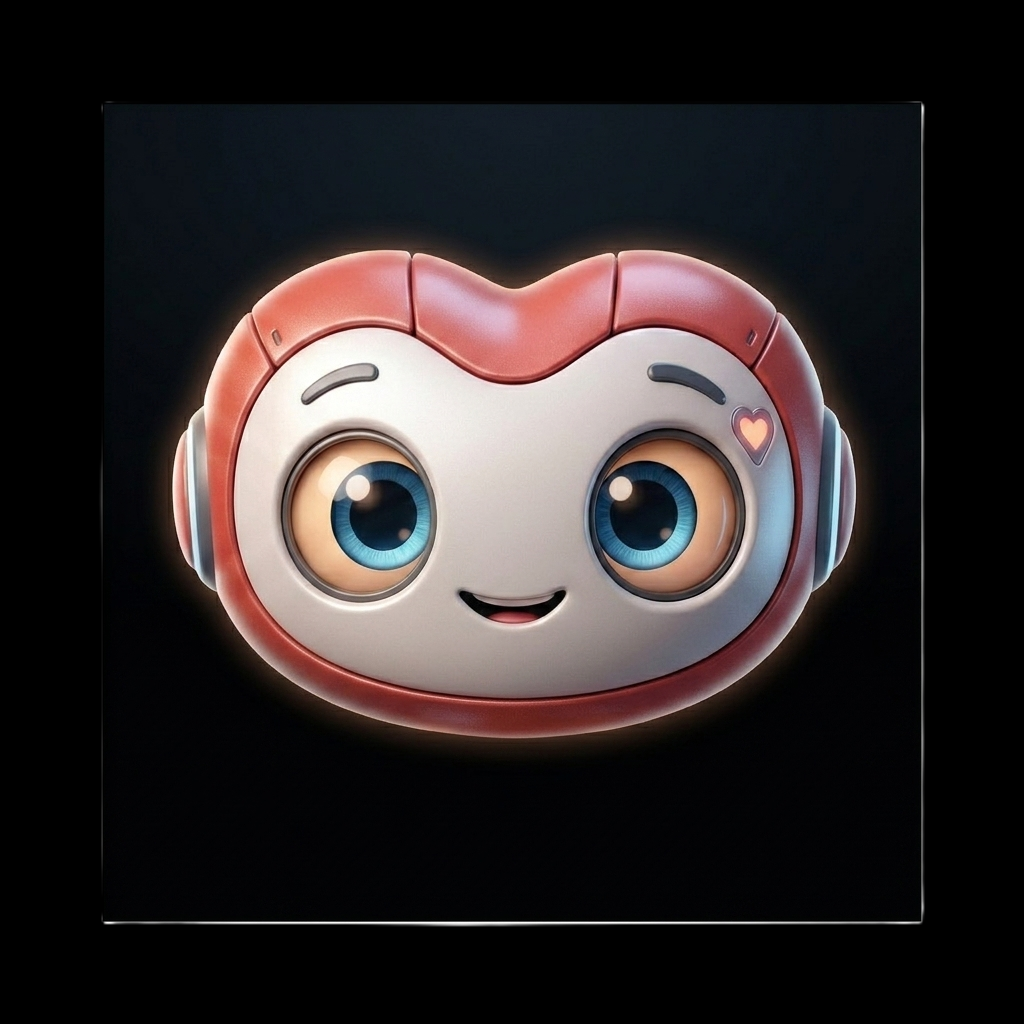
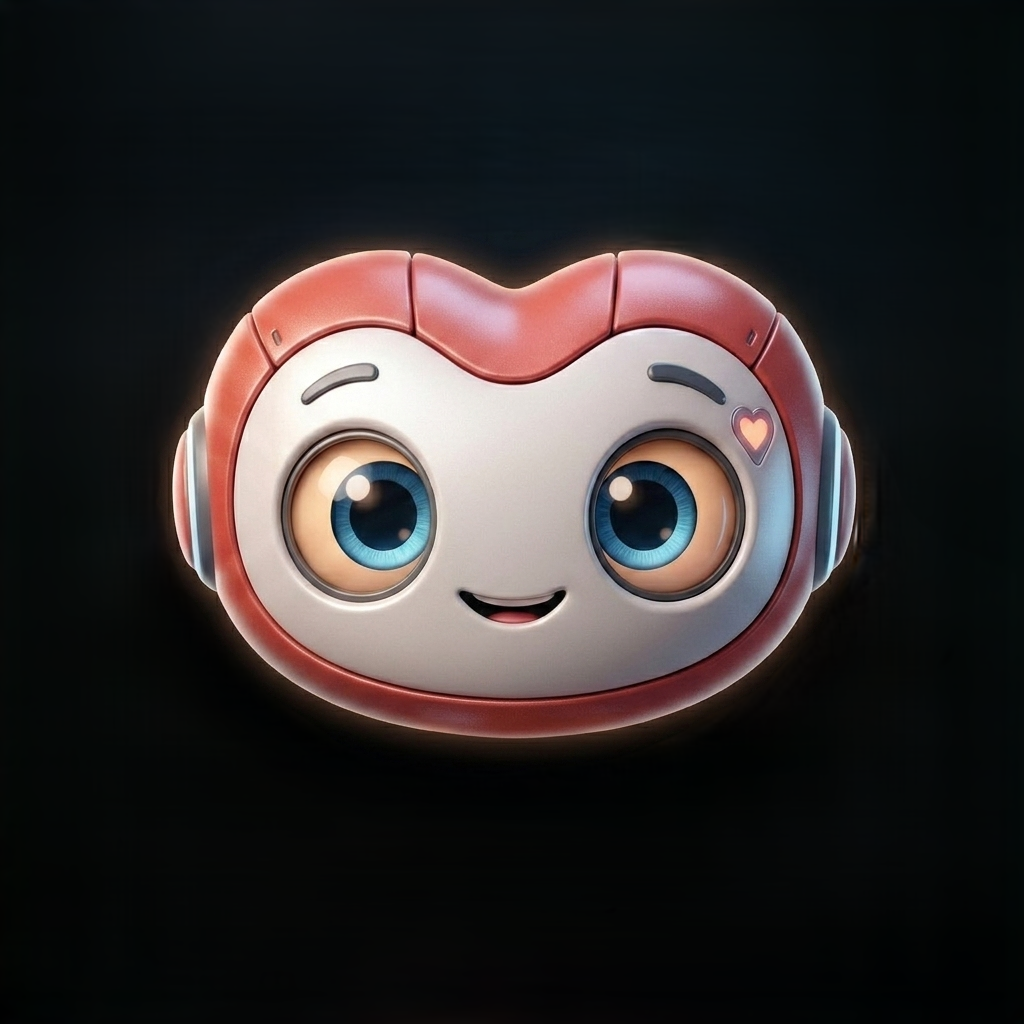
Remove COR video splash screen on startup

Changed region(s): [[0.1875, 0.0, 0.7188, 0.125], [0.125, 0.875, 0.9062, 0.9062], [0.875, 0.0938, 0.9062, 0.125]]

diff --git a/app/page.tsx b/app/page.tsx
@@ -29,12 +29,6 @@ export default function Home() {
   const [messages, setMessages] = useState<{role: string, content: string, image?: string}[]>([])
   const [input, setInput] = useState('')
   const [loading, setLoading] = useState(false)
-  const [showSplash, setShowSplash] = useState(() => {
-    if (typeof window !== 'undefined' && sessionStorage.getItem('splashShown')) return false
-    return true
-  })
-  const [fadingSplash, setFadingSplash] = useState(false)
-  const [isMuted, setIsMuted] = useState(true)
   const [savePreview, setSavePreview] = useState(false)
   const [pendingSummary, setPendingSummary] = useState('')
   const [selectedCategory, setSelectedCategory] = useState('')
@@ -97,7 +91,6 @@ export default function Home() {
   const [dragIdx, setDragIdx] = useState<number | null>(null)
 
   const bottomRef = useRef<HTMLDivElement>(null)
-  const videoRef = useRef<HTMLVideoElement>(null)
   const uploadInputRef = useRef<HTMLInputElement>(null)
   const mediaRecorderRef = useRef<MediaRecorder | null>(null)
   const audioChunksRef = useRef<Blob[]>([])
@@ -234,13 +227,6 @@ export default function Home() {
   useEffect(() => {
     bottomRef.current?.scrollIntoView({ behavior: 'smooth' })
   }, [messages])
-
-  useEffect(() => {
-    if (!showSplash) return
-    const fadeTimer = setTimeout(() => setFadingSplash(true), 5000)
-    const hideTimer = setTimeout(() => { setShowSplash(false); sessionStorage.setItem('splashShown', '1') }, 6500)
-    return () => { clearTimeout(fadeTimer); clearTimeout(hideTimer) }
-  }, [])
 
   // Request notification permission on mount
   useEffect(() => {
@@ -1204,20 +1190,6 @@ export default function Home() {
   async function signOut() {
     await supabase.auth.signOut()
     window.location.href = '/login'
-  }
-
-  if (showSplash) {
-    return (
-      <div style={{ position: 'relative', height: '100vh', background: '#080b12', opacity: fadingSplash ? 0 : 1, transition: 'opacity 1.2s ease', fontFamily: 'system-ui, sans-serif' }}>
-        <video ref={videoRef} src="/COR.Opener.mp4" autoPlay muted playsInline preload="auto" style={{ width: '100vw', height: '100vh', objectFit: 'cover' }} />
-        <button
-          onClick={() => { if (videoRef.current) { videoRef.current.muted = !videoRef.current.muted; setIsMuted(!isMuted) } }}
-          style={{ position: 'absolute', bottom: '2rem', right: '2rem', background: 'rgba(0,0,0,0.6)', border: '1px solid rgba(255,255,255,0.15)', borderRadius: '50%', width: '44px', height: '44px', display: 'flex', alignItems: 'center', justifyContent: 'center', cursor: 'pointer', fontSize: '1.2rem', zIndex: 10 }}
-        >
-          {isMuted ? '🔇' : '🔊'}
-        </button>
-      </div>
-    )
   }
 
   return (